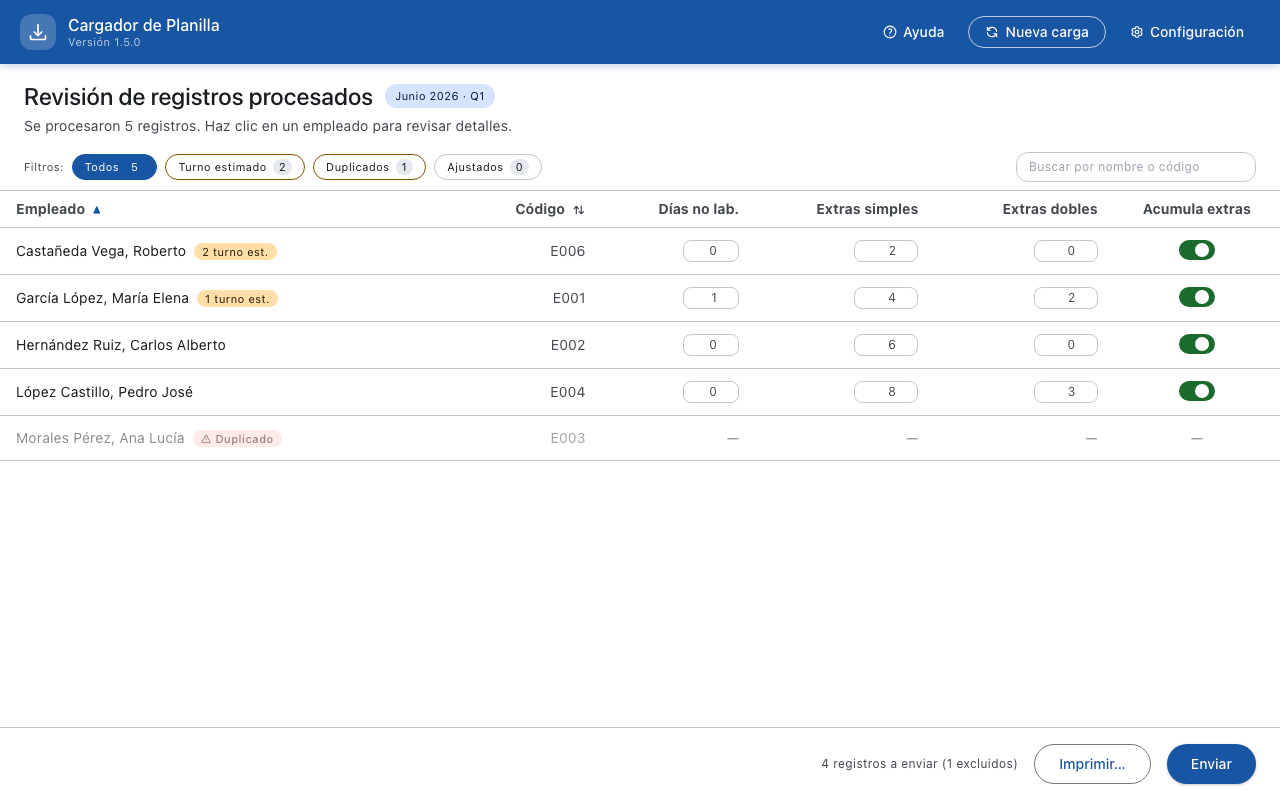
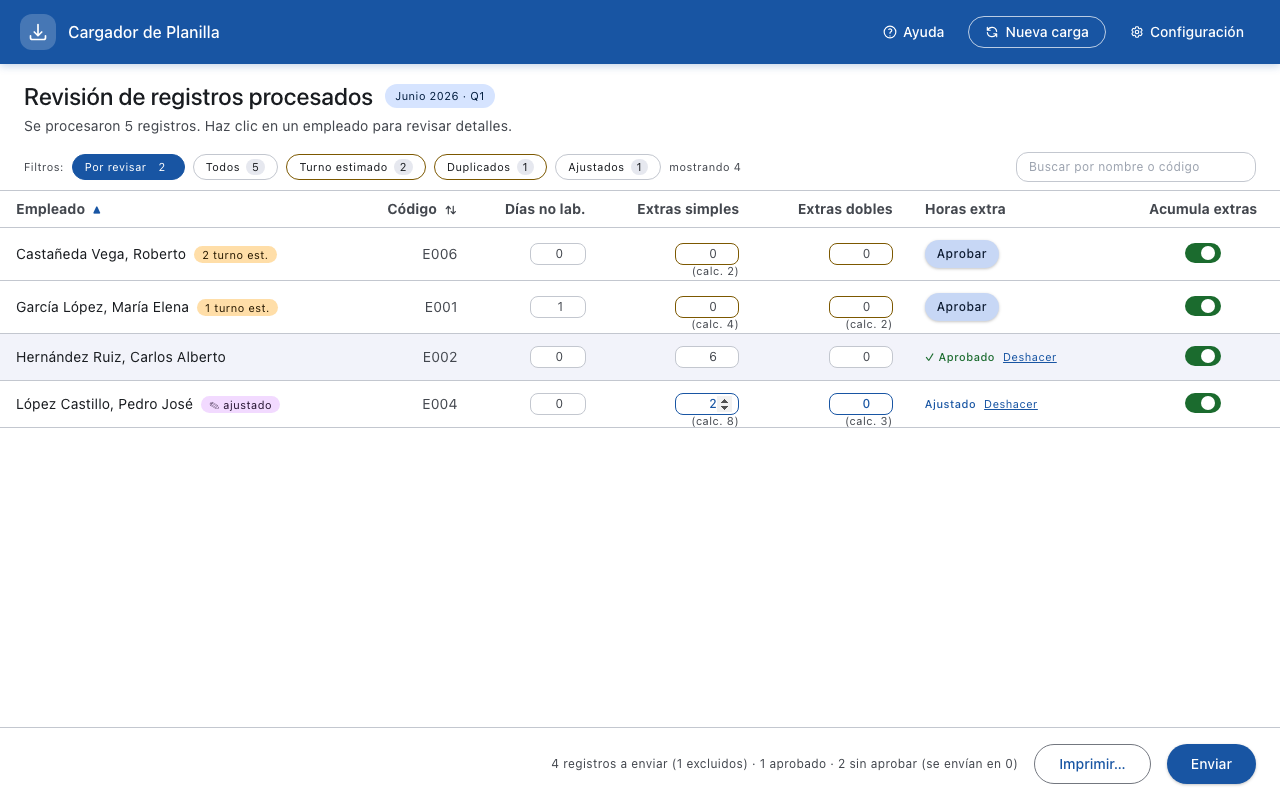
docs: manual screenshots show overtime approval and the unreviewed-overtime confirm
Claude-Session: https://claude.ai/code/session_01VucHjTz1EwVyp5NPvAmxrY

diff --git a/frontend/e2e/capture-screenshots.spec.ts b/frontend/e2e/capture-screenshots.spec.ts
@@ -263,6 +263,9 @@ test('08 - review list view', async ({ page }) => {
   await uploadFile(page);
   await page.waitForSelector('text=Revisión de registros procesados', { timeout: 10_000 });
   await page.waitForSelector('[aria-label^="Días no laborados"]', { timeout: 5_000 });
+  // One row approved and one adjusted by hand, so the picture shows each state of "Horas extra".
+  await page.getByRole('button', { name: 'Aprobar horas extra Hernández Ruiz, Carlos Alberto' }).click();
+  await page.getByLabel('Extras simples López Castillo, Pedro José').fill('2');
   await page.waitForTimeout(500);
   await screenshot(page, '08-review-list.png');
 });
@@ -307,6 +310,8 @@ test('10 - review list: duplicate row', async ({ page }) => {
   await waitForApp(page);
   await uploadFile(page);
   await page.waitForSelector('text=Revisión de registros procesados', { timeout: 10_000 });
+  // Duplicates are not sent, so they are not under "Por revisar".
+  await page.getByRole('button', { name: /^Todos/ }).click();
   await page.waitForSelector('text=Duplicado', { timeout: 5_000 });
   await screenshot(page, '10-review-duplicate.png');
 });
@@ -603,4 +608,23 @@ test('28 - review: quincena incompleta confirmation', async ({ page }) => {
   await page.locator('button:has-text("Enviar")').last().click();
   await page.waitForSelector('text=Enviar de todas formas');
   await screenshot(page, '28-review-incomplete-confirm.png');
+});
+
+test('29 - review: overtime nobody approved, before sending', async ({ page }) => {
+  await mockHealthEndpoints(page);
+  await mockCheckDuplicates(page);
+  await mockRecomputeTas(page);
+  await mockTasUpload(page, {
+    ...mock.UPLOAD_RESULT_WITH_FLAGS,
+    flaggedSessions: mock.ALL_FLAGGED_SESSIONS.map(s => ({ ...s, needsResolution: false })),
+    resolvedRows: mock.RESOLVED_ROWS,
+    availablePeriods: [{ anio: 2026, mes: 6, numeroDequincena: 1 }],
+  });
+  await waitForApp(page);
+  await uploadFile(page);
+  await page.waitForSelector('text=Revisión de registros procesados', { timeout: 10_000 });
+  await page.getByRole('button', { name: 'Aprobar horas extra García López, María Elena' }).click();
+  await page.getByRole('button', { name: /^Enviar$/ }).click();
+  await page.waitForSelector('text=Horas extra sin revisar');
+  await screenshot(page, '29-review-pending-overtime.png');
 });

diff --git a/docs/manual_usuario.md b/docs/manual_usuario.md
@@ -503,6 +503,8 @@ La barra inferior muestra cuántos registros se enviarán y cuántos serán excl
 
 > **Horas extra sin revisar:** si quedan empleados con horas extra calculadas sin aprobar, al presionar "Enviar" (y después de la confirmación de quincena incompleta, si la hay) aparece la lista de esos empleados con lo calculado: se enviarán con **0 horas extra**. También aparecen los valores escritos a mano antes de que el cálculo cambiara. Presione **"Volver a revisar"** para aprobarlos o ajustarlos, o **"Enviar de todas formas"**. Para que esta lista solo muestre lo que nadie revisó, rechace las horas extra escribiendo 0 en vez de dejarlas sin aprobar.
 
+![Aviso "Horas extra sin revisar" con la lista de empleados que se enviarán con 0 horas extra](screenshots/29-review-pending-overtime.png)
+
 ---
 
 ### Continuar una sesión sin terminar
